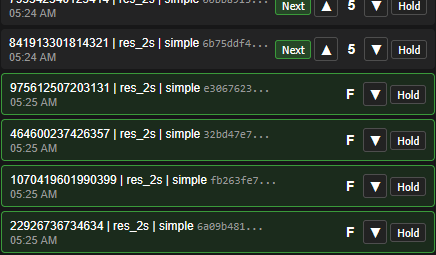
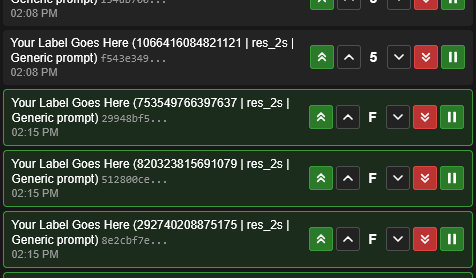
update to 1.4.0

diff --git a/README.md b/README.md
@@ -1,6 +1,6 @@
 # ComfyUI-QueueControl
 
-A ComfyUI extension helper for the bult-in Queue Manager that gives you more control over the job queue. You can pause/resume, change the run order, hold individual items, and save/load the entire queue to disk that survives a restart/reboot.
+A ComfyUI extension helper for the bult-in Queue Manager that gives you more control over the job queue. You can pause/resume, change the run order, hold individual items, and save/load the entire queue to disk that survives a restart/reboot. <u>This plugin does not load any dependencies.</u> If your ComfyUI broke, it's not this! :) 
 
 ![Queue Control](images/QuereControl.png)
 
@@ -24,13 +24,20 @@ This is useful for more than just stopping the queue. If your workflow reads fro
 
 This happens to me a lot: I submit 2/4/16/32 jobs and almost right away I realize that I want to run something quickly for a different project. With the priority system, you can submit a new job to the queue and bump it to the top. You can also set some jobs to be at the bottom so that they only run if there's nothing left ahead of it.
 
-The Queue priorities go from **0** to **9**. Every job enters the queue at priority **5** (middle of the range). 
+The Queue priorities go from **0** to **8**. Every job enters the queue at priority **5**. 
 
 - **0** — Runs next, no matter what. Only one job can be priority 0 at any given time. Setting a new one bumps the old one to 1.
 - **1–8** — Normal priorities. Lower number runs first. Within each numbered priority it goes back to first in, first out.
-- **9** — On hold. Will not run even if the queue is otherwise empty. This is good for when you are stacking up jobs are are heading to lunch or bed or whatever in an hour but want to work on something else until then.
 
-The queue panel shows all jobs with **▲/▼** buttons to nudge priority, a **Next** button to jump straight to priority 0, and a **Hold** button to set priority 9.
+The queue navigation buttons have been updated to be more intuitive.
+
+![QuereControlCrop](images/QuereControlCrop.png)
+
+The up ![SingleUp](images/Singleup.png) and down ![SingledOWN](images/SingleDown.png) arrows will move the priority up or down 1 number. (Note that when changing priorities, sorting by submission time will let be easier and the job won't "jump" away.) The Double Up ![DoubleUp](images/Doubleup.png) and Double Down ![DoubleDown](images/DoubleDown.png) arrows will move the job to the top or bottom of the numbered queue (0 or 8).
+
+The pause job button ![PauseJob](images/PauseJob.png) will set an individual job on hold. It will be dimmed in the interface with a red lowlight. Paused jobs will never run regardless of the status of the main queue. This is great for submitting long running jobs that you want to run later and are away from the computer (sleeping, showering, long walks on the beach). Just like for the entire queue, when you pause a job the button will change to a run job button ![ReleaseJob](images/ReleaseJob.png)and pressing it will release the job.
+
+You can change the job priorities while jobs are paused so that when they release they will be in whatever order you want (Reddit request).
 
 **Special note to Shift+Run submissions:** 
 
@@ -40,11 +47,15 @@ There is a feature in ComfyUI that allows a "jump to the front" already. If you 
 
 If you leave everything alone after that, it will run in the "legacy" order. Note that that the "F" jobs are special. <u>If you try to reorder an "F" job through QueueControl, it will lose it's special "F" status and move to priority 1 without being able to go back.</u>
 
+**Another special note to Shift+Run submissions:** 
+
+ComfyUI creates these Shift+Run priorities in a cleaver way. It gives them a negative priority, starting with -1, -2, -3, etc. While it's active ComfyUI keeps a counter of the last Shift+Run job and interments as necessary, forever. However, the counter resets every time you restart the server and because of that, it can make a conflict for the features below regarding saved/persistent queuing because when you load a saved queue, if it has an negative priorities it will conflict with any new Shift+Run jobs you submit. Therefore QueueControl immediately converts and restored negative priorities to 1 and moves on. 
+
 ### Sort Toggle
 
 ![ByTime](images/ByTime.png) ![ByPriority](images/ByPriority.png)
 
-The panel can display jobs sorted **By Time** (submission order) or **By Priority** (execution order). Time sort is the default — items stay in place while you change priorities, so you don't lose track of what you're editing. Setting the priorities is ***very*** rudimentary so take your time.
+The panel can display jobs sorted **By Time** (submission order) or **By Priority** (execution order). Time sort is the default — items stay in place while you change priorities, so you don't lose track of what you're editing. Setting the priorities is ***very*** rudimentary so take your time. The selection of this is persistent; if you have a favorite way to look, it will be that way the next time you dome back (Reddit request).
 
 ### Save / Load Queue
 
@@ -62,7 +73,7 @@ This is mainly for the restart scenario: save your queue, restart ComfyUI, load 
 
 **SECURITY WARNING:** The queue gets saved into the ComfyUI/custom_nodes/ComfyUI-QueueControl directory unencrypted. If you are the only user of the environment then no worries. However, if this is a shared machine the workflows in the queue could be exposed to other users which might be delicate for some users.
 
-<u>Also note:</u> there is only one copy of the file. It was not intended to keep a lot of queues and I didn't want to always have to futz with names/opening a file every time. Having said that, I have been going over tot hat directory and doing all sorts of copy/rename/editing on the saved queues. 
+<u>Also note:</u> there is only one copy of the file. It was not intended to keep a lot of queues and I didn't want to always have to futz with names/opening a file every time. Having said that, I have been going over to that directory and doing all sorts of copy/rename/editing on the saved queues. 
 
 ### Persistent Queueing (Auto-save)
 
@@ -152,6 +163,7 @@ This extension interacts directly with ComfyUI's queue internals, which means it
 1.2.1	Redesign the Queue Label node and redesign Persistent Queuing. Vesrion bump.
 1.2.2	Fix logic where shift+Run was not setting the job to 0 priority.
 1.3.0	Added extra handeling for shift+Run submission.
+1.4.0	General reworking of the Queue Panel, added some reuested features, but fix (Shift+Run) 
 ```
 
 
